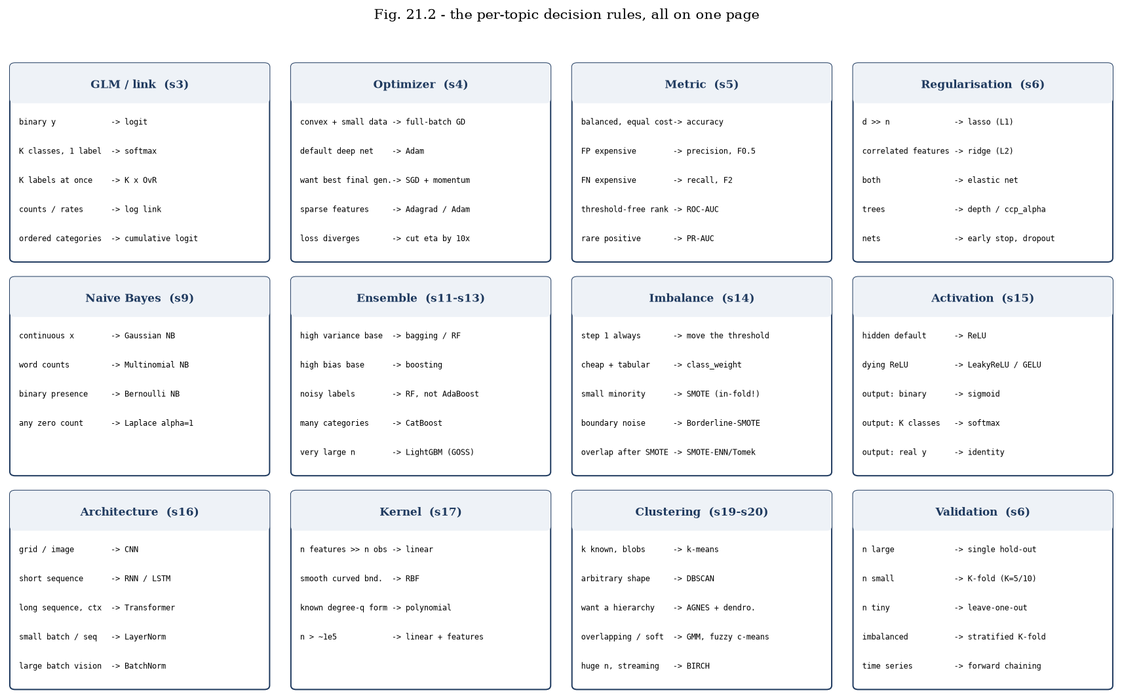
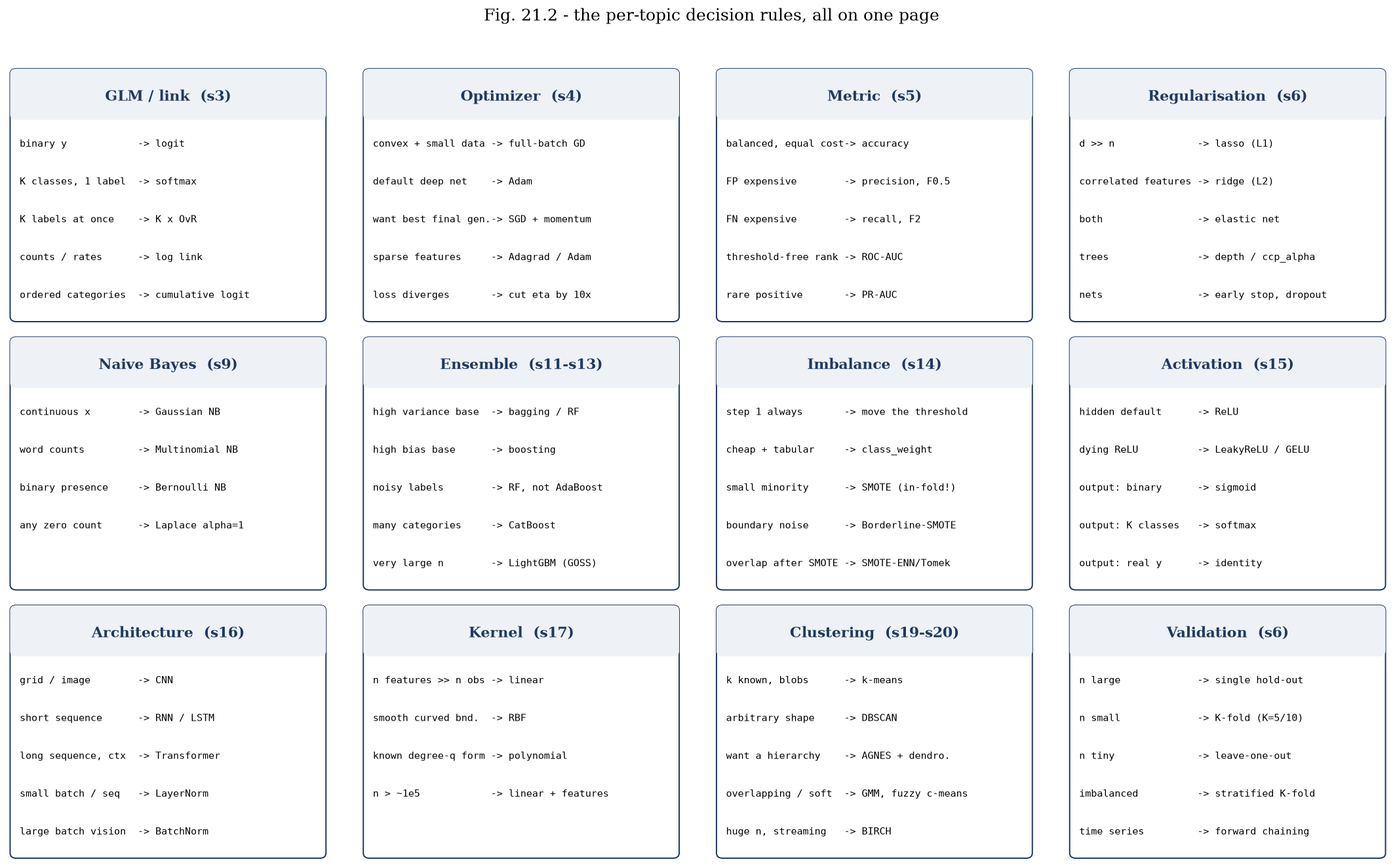
Rebrand to ML Handbook (mlhandbook.dev CNAME); test-day XGBoost treatment in ch.13; Fig 21.2 readability

diff --git a/docs/index.html b/docs/index.html
@@ -3,7 +3,7 @@
 <head>
 <meta charset="UTF-8">
 <meta name="viewport" content="width=device-width, initial-scale=1">
-<title>General ML Topics — An Interactive Machine-Learning Textbook</title>
+<title>ML Handbook — A Practical Guide for Professionals</title>
 <script>
 window.MathJax = {
   tex: { inlineMath: [['$','$'], ['\\(','\\)']],
@@ -586,14 +586,14 @@ document.addEventListener('DOMContentLoaded', function () {
 <body>
 <button id="sbtoggle" aria-label="toggle contents">&#9776;</button>
 <nav id="sidebar">
-  <h1>General ML Topics</h1>
-  <div class="crumb">an interactive machine-learning textbook</div>
+  <h1>ML Handbook</h1>
+  <div class="crumb">a practical guide for professionals</div>
   <input id="tocfilter" type="text" placeholder="filter topics&hellip;">
   <ul id="toc"></ul>
-  <div class="navlinks">Theory &middot; derivations &middot; worked examples &middot; interactive labs &middot; coding drills.<div style="margin-top:8px"><a href="test_set.html"><b>&#9998; Question Bank</b></a> — 128 MCQs + 50 in-browser coding problems</div></div>
+  <div class="navlinks">Theory &middot; derivations &middot; worked examples &middot; interactive labs &middot; coding drills.<div style="margin-top:8px"><a href="test_set.html"><b>&#9998; Question Bank</b></a> — 128 MCQs + 55 in-browser coding problems</div></div>
 </nav>
 <main id="main">
-<h1 class="title">Machine Learning — Complete Study Notes</h1>
+<h1 class="title">ML Handbook — Machine Learning: A Practical Guide for Professionals</h1>
 <div class="subtitle">an interactive textbook — theory, step-by-step derivations, worked examples, widgets &amp; coding labs</div>
 
 <h2 id="s01">1 &nbsp; When Can Machines Learn?</h2>
@@ -7635,7 +7635,14 @@ salary/age examples), using native categorical support and the learned default d
 §13.10 for missing values &mdash; verified on xgboost 3.4.0
 <!-- prov: s13_xgb_practical.json:xgboost_version -->:</p>
 
-<pre><code># preprocessing: order-preserving transforms are unnecessary — encode intent, not scale
+<pre><code>import numpy as np
+import pandas as pd
+import xgboost as xgb                                   # the package; gives xgb.DMatrix, xgb.train, xgb.cv
+from xgboost import XGBClassifier, XGBRegressor         # the sklearn-API wrappers
+from sklearn.model_selection import train_test_split
+print(xgb.__version__)        # enable_categorical needs &gt;= 1.6; tree_method="hist" is the default from 2.0
+
+# preprocessing: order-preserving transforms are unnecessary — encode intent, not scale
 df["city"] = df["city"].astype("category")   # native categoricals (enable_categorical)
 # leave salary's NaNs alone: each split learns a default direction (see 13.10)
 
@@ -7656,6 +7663,173 @@ validation/test. Encoding the splits separately silently produces two different 
 garbage predictions &mdash; the xgboost documentation calls this out explicitly. Prefer
 low-cardinality one-hot; for high-cardinality features prefer native categorical support or
 target statistics (what CatBoost automates, §13.12).</div>
+
+<h4>The two APIs: sklearn wrapper vs native booster</h4>
+
+<p>XGBoost ships <em>two</em> front ends onto the same C++ booster, and test questions phrase
+themselves in whichever one the setter learned. Know both, and know that
+<code>clf.get_booster()</code> converts one into the other for free.</p>
+
+<ul>
+<li><b>The sklearn wrapper</b> &mdash; <code>XGBClassifier</code> / <code>XGBRegressor</code> (also
+<code>XGBRanker</code>). It has <code>.fit / .predict / .predict_proba / .score</code>, so it drops
+straight into <code>Pipeline</code>, <code>ColumnTransformer</code>, <code>cross_val_score</code>,
+<code>GridSearchCV</code>/<code>RandomizedSearchCV</code> and <code>SelectFromModel</code>. Use it by
+default; almost every marking scheme expects this shape.</li>
+<li><b>The native API</b> &mdash; <code>xgb.DMatrix</code> + <code>xgb.train</code> + <code>xgb.cv</code>.
+Reach for it when you need a <em>custom objective or metric</em> (pass your own
+<code>obj=</code> returning $(g_i, h_i)$, or <code>custom_metric=</code>), <em>exact early-stopping
+control</em> (which watch-list entry drives it, <code>iteration_range</code> at predict time), or
+<code>xgb.cv</code>'s <em>per-round cross-validation table</em> &mdash; a full learning curve of
+mean&nbsp;&plusmn;&nbsp;std per boosting round that the wrapper simply cannot produce.</li>
+</ul>
+
+<p>The only real friction is that the two use different names for the same knob:</p>
+
+<div class="scrollx"><table>
+<thead><tr><th class="l">sklearn wrapper</th><th class="l">native <code>params</code> dict</th><th class="l">note</th></tr></thead>
+<tbody>
+<tr><td class="l"><code>n_estimators</code></td><td class="l"><code>num_boost_round</code> (argument, not a param)</td><td class="l">$M$, the number of trees</td></tr>
+<tr><td class="l"><code>learning_rate</code></td><td class="l"><code>eta</code></td><td class="l">$\nu$ of §13.4</td></tr>
+<tr><td class="l"><code>reg_lambda</code> / <code>reg_alpha</code></td><td class="l"><code>lambda</code> / <code>alpha</code></td><td class="l">$\lambda$ of §13.7</td></tr>
+<tr><td class="l"><code>gamma</code></td><td class="l"><code>gamma</code> (a.k.a. <code>min_split_loss</code>)</td><td class="l">$\gamma$ of §13.7</td></tr>
+<tr><td class="l"><code>random_state</code></td><td class="l"><code>seed</code></td><td class="l">same thing</td></tr>
+<tr><td class="l"><code>n_jobs</code></td><td class="l"><code>nthread</code></td><td class="l">same thing</td></tr>
+</tbody></table></div>
+<p class="small"></p>
+
+<details class="code"><summary>Code — the same model twice: sklearn wrapper, then native <code>DMatrix</code>/<code>xgb.train</code>, plus <code>xgb.cv</code></summary>
+<pre><code>import numpy as np
+import pandas as pd
+import xgboost as xgb
+from xgboost import XGBClassifier
+from sklearn.model_selection import train_test_split
+
+rng = np.random.default_rng(0)
+n = 800
+X = pd.DataFrame({
+    "age":    rng.integers(18, 65, n).astype(float),
+    "salary": rng.normal(12, 4, n).clip(2, 30),
+    "city":   pd.Categorical(rng.choice(["kolkata", "mumbai", "delhi"], n)),   # category dtype
+})
+lin   = 0.05 * X["age"] + 0.25 * X["salary"] - 5.0
+y     = (rng.random(n) &lt; 1 / (1 + np.exp(-lin))).astype(int)   # classification target
+spend = 40 * lin + rng.normal(0, 5, n)                         # regression target, used by xgb.cv below
+Xtr, Xva, ytr, yva = train_test_split(X, y, test_size=0.25, stratify=y, random_state=0)</code></pre>
+<pre><code># ---------- API 1: sklearn wrapper — Pipeline / GridSearchCV / SelectFromModel all work ----------
+clf = XGBClassifier(
+    n_estimators=2000, learning_rate=0.05, max_depth=4,        # sklearn NAMES
+    tree_method="hist", enable_categorical=True,
+    eval_metric="logloss", early_stopping_rounds=50, random_state=0,
+)
+clf.fit(Xtr, ytr, eval_set=[(Xva, yva)], verbose=False)
+clf.best_iteration, clf.best_score        # where early stopping fired, and the metric there
+p_wrap = clf.predict_proba(Xva)[:, 1]     # predict_proba already truncates at the best iteration</code></pre>
+<pre><code># ---------- API 2: native booster — custom objectives, xgb.cv, exact control ----------
+dtrain = xgb.DMatrix(Xtr, label=ytr, enable_categorical=True)   # label=, not a second positional y
+dvalid = xgb.DMatrix(Xva, label=yva, enable_categorical=True)
+
+params = {
+    "objective": "binary:logistic",   # picks g_i, h_i (13.7); reg:squarederror for regression
+    "eval_metric": "logloss",
+    "eta": 0.05,                      # == learning_rate
+    "max_depth": 4,
+    "tree_method": "hist", "seed": 0,
+}
+evals = [(dtrain, "train"), (dvalid, "valid")]   # the LAST entry is the one early stopping watches
+
+bst = xgb.train(params, dtrain,
+                num_boost_round=2000,            # == n_estimators
+                evals=evals, early_stopping_rounds=50, verbose_eval=False)
+
+bst.best_iteration                               # 0-indexed index of the best round
+p_nat = bst.predict(dvalid, iteration_range=(0, bst.best_iteration + 1))   # +1: end is exclusive
+np.abs(p_wrap - p_nat).max()   # identical predictions: same seed, same params, same booster</code></pre>
+<pre><code># ---------- xgb.cv: the per-round CV table the wrapper cannot give you ----------
+dall = xgb.DMatrix(X, label=spend, enable_categorical=True)     # regression target -&gt; rmse
+reg_params = {"objective": "reg:squarederror", "eta": 0.05, "max_depth": 4,
+              "tree_method": "hist", "seed": 0}
+cv = xgb.cv(reg_params, dall,
+            num_boost_round=1000, nfold=5, metrics="rmse",
+            early_stopping_rounds=50, seed=0, as_pandas=True)
+
+cv.columns        # ['train-rmse-mean', 'train-rmse-std', 'test-rmse-mean', 'test-rmse-std']
+best_rounds = cv["test-rmse-mean"].idxmin() + 1                 # +1: rows are 0-indexed rounds
+cv["test-rmse-mean"].min(), cv["test-rmse-std"][best_rounds - 1]   # score AND its fold spread
+# then REFIT on ALL the data with num_boost_round=best_rounds — that is the model you ship
+final = xgb.train(reg_params, dall, num_boost_round=best_rounds)</code></pre>
+<p class="wnote">Interview line: <em>they are the same booster</em> &mdash; the wrapper is a thin sklearn
+adapter over <code>xgb.train</code>, and <code>clf.get_booster()</code> hands you the native object, so
+you can tune with <code>GridSearchCV</code> and then inspect, dump or plot natively. Go native only for a
+custom objective/metric, for <code>xgb.cv</code>'s per-round table, or when you must control
+<code>iteration_range</code>. Two pitfalls worth saying out loud: native <code>bst.predict</code> uses
+<em>all</em> rounds unless you pass <code>iteration_range</code> (the wrapper does it for you), and
+<code>xgb.cv</code> returns a table of <em>rounds</em>, not a fitted model &mdash; you still have to refit.</p>
+</details>
+
+<div class="warn"><b>Gotcha &mdash; where <code>early_stopping_rounds</code> lives.</b> Since xgboost 2.0 the
+sklearn wrapper takes it in the <em>constructor</em> (as above), not in <code>.fit()</code>; older code
+passing <code>clf.fit(..., early_stopping_rounds=30)</code> raises a <code>TypeError</code>. In the native
+API it stays an argument of <code>xgb.train</code>/<code>xgb.cv</code>. Either way it needs an
+<code>eval_set</code>/<code>evals</code> to watch, and that watch-list must <em>not</em> be your test set if
+you intend to report an honest test score &mdash; early stopping on the test fold is leakage (§6).</div>
+
+<h4>The parameters that actually matter</h4>
+
+<p>§13.11 lists what the handwritten source names; this is the working set, grouped by the <em>role</em> a
+parameter plays, which is how you should reason about them under time pressure. Defaults are xgboost's own;
+&ldquo;typical&rdquo; is the practitioner search range.</p>
+
+<div class="scrollx"><table>
+<thead><tr><th class="l">param</th><th class="l">role</th><th class="l">typical range (default)</th><th class="l">what increasing it does</th><th class="l">overfitting direction</th></tr></thead>
+<tbody>
+<tr><td class="l"><code>max_depth</code></td><td class="l">capacity</td><td class="l">3&ndash;8 (6)</td><td class="l">deeper trees &rArr; interactions of higher order (depth $d$ captures $d$-way interactions)</td><td class="l">&uarr; overfits &mdash; the first knob to cut</td></tr>
+<tr><td class="l"><code>min_child_weight</code></td><td class="l">capacity</td><td class="l">1&ndash;10 (1)</td><td class="l">floor on a leaf's Hessian mass $H_j = \sum_{i \in I_j} h_i$ (§13.7); a split is refused if either child falls below it</td><td class="l">&uarr; underfits (regularises)</td></tr>
+<tr><td class="l"><code>gamma</code> / <code>min_split_loss</code></td><td class="l">capacity (pruning)</td><td class="l">0&ndash;5 (0)</td><td class="l">the §13.7 pruning threshold: a split survives only if $\text{Gain} &gt; \gamma$</td><td class="l">&uarr; underfits (fewer leaves)</td></tr>
+<tr><td class="l"><code>subsample</code></td><td class="l">sampling (rows)</td><td class="l">0.6&ndash;1.0 (1.0)</td><td class="l">fraction of rows drawn per tree; lower = more randomness, decorrelated trees</td><td class="l">&darr; regularises; below ~0.5 it just adds noise</td></tr>
+<tr><td class="l"><code>colsample_bytree</code></td><td class="l">sampling (columns)</td><td class="l">0.5&ndash;1.0 (1.0)</td><td class="l">fraction of features per tree (also <code>_bylevel</code>, <code>_bynode</code>); the §11 Random-Forest trick</td><td class="l">&darr; regularises, and dilutes a dominant feature</td></tr>
+<tr><td class="l"><code>learning_rate</code> / <code>eta</code></td><td class="l">shrinkage</td><td class="l">0.01&ndash;0.3 (0.3)</td><td class="l">scales every tree's contribution (§13.4); larger = fewer, bolder steps</td><td class="l">&uarr; overfits &amp; is unstable; &darr; needs more trees</td></tr>
+<tr><td class="l"><code>n_estimators</code> / <code>num_boost_round</code></td><td class="l">shrinkage (paired)</td><td class="l">set it high (2000&ndash;5000) and let early stopping choose</td><td class="l">more boosting rounds; the product with the learning rate is what matters</td><td class="l">&uarr; overfits &mdash; but <b>never grid-search it</b></td></tr>
+<tr><td class="l"><code>reg_lambda</code> (L2)</td><td class="l">regularisation</td><td class="l">0&ndash;10 (1)</td><td class="l">the $\lambda$ in the similarity score $G_j^2/(H_j+\lambda)$ and in $w_j^{*} = -G_j/(H_j+\lambda)$ (§13.7); shrinks leaves with little Hessian mass hardest</td><td class="l">&uarr; underfits (smaller leaf outputs)</td></tr>
+<tr><td class="l"><code>reg_alpha</code> (L1)</td><td class="l">regularisation</td><td class="l">0&ndash;10 (0)</td><td class="l">L1 on leaf weights; can drive a leaf output to exactly zero</td><td class="l">&uarr; underfits; use for sparse/wide feature sets</td></tr>
+<tr><td class="l"><code>scale_pos_weight</code></td><td class="l">imbalance</td><td class="l">$n_{\text{neg}}/n_{\text{pos}}$ (1)</td><td class="l">multiplies the positive class's $g_i, h_i$, so a rare positive counts as several rows</td><td class="l">not an overfitting knob &mdash; it moves the operating point, and it distorts calibrated probabilities</td></tr>
+<tr><td class="l"><code>early_stopping_rounds</code></td><td class="l">control</td><td class="l">20&ndash;100 (off)</td><td class="l">patience: stop after this many rounds with no improvement on the watch list</td><td class="l">too small stops on noise; too large wastes time only</td></tr>
+<tr><td class="l"><code>eval_metric</code></td><td class="l">control</td><td class="l"><code>logloss</code>, <code>auc</code>, <code>aucpr</code>, <code>error</code>; <code>rmse</code>, <code>mae</code></td><td class="l">what early stopping and the watch list report; independent of <code>objective</code></td><td class="l">pick the metric you are actually scored on (§5); <code>aucpr</code> under heavy imbalance</td></tr>
+<tr><td class="l"><code>tree_method</code></td><td class="l">control</td><td class="l"><code>"hist"</code> (default from 2.0)</td><td class="l">histogram binning of the split candidates &mdash; the LightGBM trick, orders of magnitude faster than <code>"exact"</code></td><td class="l">no real accuracy cost; required for <code>enable_categorical</code></td></tr>
+<tr><td class="l"><code>enable_categorical</code></td><td class="l">control</td><td class="l"><code>True</code>/<code>False</code> (False)</td><td class="l">lets pandas <code>category</code> columns be split on natively &mdash; no one-hot (§13.12)</td><td class="l">high-cardinality categoricals can overfit; pair with <code>max_cat_to_onehot</code></td></tr>
+<tr><td class="l"><code>n_jobs</code> / <code>nthread</code></td><td class="l">control</td><td class="l">$-1$ (all cores)</td><td class="l">threads used for split finding</td><td class="l">no effect on the fit, only on the clock</td></tr>
+<tr><td class="l"><code>random_state</code> / <code>seed</code></td><td class="l">control</td><td class="l">any int (0)</td><td class="l">seeds row/column subsampling &mdash; only matters if either is &lt; 1</td><td class="l">set it, always, or your numbers will not reproduce</td></tr>
+</tbody></table></div>
+<p class="small"></p>
+
+<div class="summary"><b>Tuning order &mdash; do it in this sequence.</b> This is Fig. 13.10's final box made
+concrete, and it is deliberately greedy: each stage's choice is stable enough for the next stage to sit on top
+of it.
+<ol>
+<li><b>Fix the shrinkage pair first.</b> Set <code>learning_rate</code> to 0.05&ndash;0.1, set
+<code>n_estimators</code> absurdly high, and let <code>early_stopping_rounds</code> pick $M$. That single
+run gives you a working baseline <em>and</em> the round budget everything else is judged against. Never put
+<code>n_estimators</code> in the grid &mdash; it is the one hyperparameter the training run reveals for free.</li>
+<li><b>Then capacity</b>: <code>max_depth</code> (3&ndash;8) with <code>min_child_weight</code> (1&ndash;10).
+These interact, so search them jointly; they are where most of the overfitting lives.</li>
+<li><b>Then sampling</b>: <code>subsample</code> and <code>colsample_bytree</code> over 0.6&ndash;1.0. Cheap,
+low-risk variance reduction.</li>
+<li><b>Then the regularisers</b>: <code>gamma</code>, <code>reg_lambda</code>, <code>reg_alpha</code> &mdash;
+only if train&ndash;validation gap remains after the above.</li>
+<li><b>Finally, drop the learning rate</b> (say 0.1 &rarr; 0.02) and re-run early stopping once. Almost always
+worth a little more, always costs more trees.</li>
+</ol>
+If the clock is short, do step 1 and stop: a well-early-stopped default XGBoost is a strong baseline, and
+grid-searching depth on an unstopped model measures nothing but the grid.</div>
+
+<div class="note"><b>Imbalance: <code>scale_pos_weight</code> before resampling.</b> Set it to
+$n_{\text{neg}}/n_{\text{pos}}$ on the <em>training</em> fold. It reweights the gradients rather than
+inventing rows, so it costs nothing, cannot leak synthetic neighbours across a CV split the way a
+carelessly-placed SMOTE can, and leaves the data untouched. Prefer it whenever the loss is what you care
+about; prefer resampling (SMOTE and friends, §14) when the minority class is so small that the <em>split
+finder</em> never sees enough positives in a node to form a threshold at all. Either way, judge the result on
+PR-AUC / recall at a fixed precision, not accuracy, and remember that both distort probability calibration
+&mdash; recalibrate if you need probabilities (§14, §5).</div>
 
 <h4>The three importance lenses: weight, gain, cover</h4>
 
@@ -7702,7 +7876,142 @@ salary and age split early on big nodes. When importances must support a decisio
 with permutation importance on held-out data or SHAP values (§14), which also handle the
 credit-splitting between correlated features more honestly.</div>
 
+<details class="code"><summary>Code — the three importances side-by-side, and the <code>get_score</code> crib</summary>
+<pre><code>import matplotlib.pyplot as plt
+import xgboost as xgb
+
+bst = clf.get_booster()          # clf = the fitted XGBClassifier; -&gt; the native Booster the plots want
+# a booster trained from a numpy DMatrix shows f0, f1, f2 ... — name the columns first:
+bst.feature_names = list(Xtr.columns)
+
+fig, axes = plt.subplots(1, 3, figsize=(15, 4))
+for ax, t in zip(axes, ["weight", "gain", "total_gain"]):
+    xgb.plot_importance(bst, importance_type=t, ax=ax,
+                        title=t, xlabel="", show_values=False, height=0.5)
+fig.tight_layout()
+plt.show()      # read them side by side: the ORDER changing between panels is the signal</code></pre>
+<pre><code># the crib — all five types in one frame (memorise this; it is two lines)
+import pandas as pd
+types = ["weight", "gain", "cover", "total_gain", "total_cover"]
+imp = pd.DataFrame({t: bst.get_score(importance_type=t) for t in types}).fillna(0.0)
+imp.sort_values("total_gain", ascending=False)
+# fillna is NOT cosmetic: get_score OMITS never-split features, so absent means zero
+
+clf.feature_importances_        # sklearn view: normalised to sum 1, "gain" by default for gbtree
+xgb.plot_importance(clf, importance_type="gain")     # the wrapper is accepted here too</code></pre>
+<p class="wnote">Interview line: <em>match the lens to the claim.</em> &ldquo;The model leans on this feature&rdquo;
+&rarr; <b>total_gain</b> (sum, so it does not reward a feature for one lucky split). &ldquo;This feature is
+used constantly&rdquo; &rarr; <b>weight</b> &mdash; and remember it is exactly the lens that ranked
+<code>noise_id</code> second here, because a continuous noise column offers endless thresholds to nibble on.
+&ldquo;This feature decides things near the root, for many rows&rdquo; &rarr; <b>cover</b>. &ldquo;Removing
+this feature would cost us&rdquo; &rarr; <em>none of the five</em>: they are all read off the <em>training</em>
+structure, so the referee is held-out permutation importance or SHAP (§14), which is what exposed
+<code>noise_id</code>'s negative contribution above. Plot all three, and if the ranking flips between panels,
+say so rather than quoting one.</p>
+</details>
+
+<h4>Feature engineering &amp; selection for XGBoost</h4>
+
+<p>A gradient-boosted tree can express any axis-aligned step function given enough depth, which
+tempts people into believing it needs no feature engineering. What it cannot do is form a
+<em>new axis</em>: every split compares one raw column against one threshold, so any quantity
+that lives in a <em>ratio</em>, a <em>difference</em>, or a <em>group summary</em> has to be handed
+to it as a column. That is the whole rule, and it decides both lists below.</p>
+
+<div class="scrollx"><table>
+<thead><tr><th class="l">BUILD these &mdash; the tree cannot form them</th><th class="l">SKIP these &mdash; the tree does not care</th></tr></thead>
+<tbody>
+<tr>
+<td class="l"><b>Group aggregates and counts.</b> <code>df.groupby(key)[col].transform("mean"/"count"/"std"/"max")</code>
+&mdash; "this customer's average basket", "how many transactions this id has". <code>transform</code>, not
+<code>agg</code>, so the result aligns back to every row (§22.1.5).</td>
+<td class="l"><b>Scaling of any kind.</b> <code>StandardScaler</code>, min&ndash;max, log, Box&ndash;Cox: every
+monotone map leaves every split &mdash; hence the fitted model &mdash; identical (§22.2.9). Scale for §4's
+gradient descent, §8's kNN and §17's SVM; never for a tree.</td>
+</tr>
+<tr>
+<td class="l"><b>Ratios and differences.</b> <code>amount/limit</code>, <code>price/sqft</code>,
+<code>spend - group_mean</code>. A single split cannot represent $x_1/x_2 &gt; c$; it needs a deep staircase to
+approximate it. One column replaces that staircase.</td>
+<td class="l"><b>One-hot for high cardinality.</b> A 5&nbsp;000-level id becomes 5&nbsp;000 near-empty binary
+columns, each too sparse to clear <code>min_child_weight</code>. Use native categoricals, frequency or target
+encoding instead (§22.2.10, §13.12).</td>
+</tr>
+<tr>
+<td class="l"><b>Encodings for high-cardinality nominals.</b> Frequency/count encoding (one line, no leakage
+risk) and out-of-fold target encoding (compute the target mean on the <em>other</em> folds only) &mdash; the
+full menu, with the leakage traps, is §22.2.10.</td>
+<td class="l"><b>Imputation, when native routing suffices.</b> Leave <code>NaN</code> in place: each node
+learns its own default direction (§13.10), which is strictly more expressive than pinning missingness to one
+point of the axis. Impute only when missingness is genuinely uninformative.</td>
+</tr>
+<tr>
+<td class="l"><b>Datetime, cyclical and lag features.</b> A raw timestamp is a monotone counter the tree can
+only memorise; extract dayofweek/month/hour, encode angles with sin&ndash;cos so December sits next to January,
+and build lags/rolling windows and "days since last event" (§22.3, §22.4).</td>
+<td class="l"><b>Interaction terms, mostly.</b> A depth-$d$ tree already represents $d$-way interactions of the
+columns it has, so explicit <code>x1*x2</code> rarely helps a depth-6 model. The exception is real: with
+shallow trees (depth 2&ndash;3), or with a ratio the staircase approximates badly, an explicit column still
+earns its place.</td>
+</tr>
+<tr>
+<td class="l"><b>Missingness as signal.</b> <code>df[c].isna().astype(int)</code> when the <em>fact</em> of a
+blank is predictive (MNAR &mdash; an unfilled income field) and you still want to impute the value itself.</td>
+<td class="l"><b>Deduplicating what the model would learn anyway.</b> Dropping a column because it correlates
+with another mostly reshuffles importance between the twins (see the gotchas below) without changing the fit.</td>
+</tr>
+</tbody></table></div>
+
+<details class="code"><summary>Code — four engineered features on a literal frame, straight into XGBClassifier</summary>
+<pre><code>import pandas as pd
+from xgboost import XGBClassifier
+
+tx = pd.DataFrame({
+    "cust":   ["a", "a", "a", "a", "b", "b", "b", "c", "c", "c", "c", "d"],
+    "city":   ["kol", "kol", "mum", "kol", "mum", "del", "mum", "del",
+               "kol", "mum", "kol", "del"],
+    "amount": [120., 80., 300., 60., 45., 60., 900., 500., 20., 90., 40., 700.],
+    "limit":  [1000., 1000., 2000., 1000., 500., 500., 1000., 4000.,
+               300., 300., 300., 1000.],
+    "ts":     ["2026-01-03", "2026-02-11", "2026-02-28", "2026-03-05",
+               "2026-01-19", "2026-03-02", "2026-03-20", "2026-03-15",
+               "2026-01-05", "2026-03-30", "2026-02-02", "2026-03-28"],
+    "flag":   [0, 0, 1, 0, 0, 0, 1, 1, 0, 0, 0, 0],   # "unusual FOR THIS customer"
+})
+tx["ts"] = pd.to_datetime(tx["ts"])      # never engineer dates off a string column</code></pre>
+<pre><code>g = tx.groupby("cust")["amount"]
+
+# 1. group COUNT  — how much history this customer has
+tx["cust_txn_count"]   = g.transform("count")
+# 2. group MEAN, as a RATIO — "big for this customer", which no single split can express
+tx["amt_vs_cust_mean"] = tx["amount"] / g.transform("mean")
+# 3. a plain ratio of two columns
+tx["utilisation"]      = tx["amount"] / tx["limit"]
+# 4. recency: a DURATION, not a timestamp (a raw date is just a counter to a tree)
+tx["days_since"]       = (tx["ts"].max() - tx["ts"]).dt.days
+# bonus: frequency encoding for a nominal — one column instead of one-hot
+tx["city_freq"]        = tx["city"].map(tx["city"].value_counts(normalize=True))
+
+X = tx[["amount", "limit", "cust_txn_count", "amt_vs_cust_mean",
+        "utilisation", "days_since", "city_freq"]]      # note: no scaling, no imputation
+fe_clf = XGBClassifier(n_estimators=60, max_depth=2, learning_rate=0.3,
+                       tree_method="hist", eval_metric="logloss")
+fe_clf.fit(X, tx["flag"])
+dict(zip(X.columns, fe_clf.feature_importances_.round(3)))</code></pre>
+<p class="wnote">Interview line: a tree splits <em>one column at a time</em>, so engineering for GBDTs means
+manufacturing the axes it cannot manufacture &mdash; group summaries, ratios, differences, durations &mdash;
+and then doing nothing else. Say the two halves together: <em>build</em> <code>groupby(...).transform(...)</code>
+aggregates, ratios, datetime durations and frequency/OOF-target encodings; <em>skip</em> scaling, wide one-hot
+and imputation. Pitfall: any statistic computed from the target (target encoding, group means of $y$) must be
+computed out-of-fold, or you have leaked the label into a column and your CV score becomes fiction.</p>
+</details>
+
 <h4>Feature selection that respects the model</h4>
+
+<p>Once the columns exist, the cut. Back on the 600-row pipeline fitted at the top of this subsection,
+XGBoost's own importances double as an <em>embedded</em> selector (§22.2.11's third family): fit once, keep
+what the model used, refit. <code>SelectFromModel</code> wraps that in one call &mdash; with the caveat that
+it inherits every bias of whichever lens you fed it.</p>
 
 <pre><code>from sklearn.feature_selection import SelectFromModel
 sel = SelectFromModel(clf, threshold="median", prefit=True)   # keeps above-median importance

diff --git a/docs/test_set.html b/docs/test_set.html
@@ -4584,7 +4584,7 @@ print("ALL CHECKS PASSED — C55")
 </div>
 
 <hr>
-<div style="text-align:center; font-size:12px; color: var(--muted); margin: 14px 0;">183 problems &middot; answers computed and independently verified &middot; companion to the ML notes.</div>
+<div style="text-align:center; font-size:12px; color: var(--muted); margin: 14px 0;">183 problems &middot; answers computed and independently verified &middot; companion to the ML Handbook.</div>
 </main>
 </body>
 </html>

diff --git a/README.md b/README.md
@@ -1,9 +1,9 @@
-# General ML Topics — An Interactive Machine-Learning Textbook
+# ML Handbook — A Practical Guide for Professionals
 
 A complete, self-contained interactive textbook covering machine learning from first
 principles to practice, in a single web page.
 
-**Read it here: <https://metaphorpritam.github.io/General_ML_Topics/>**
+**Read it here: <https://mlhandbook.dev/>**
 
 ## What's inside
 
@@ -38,5 +38,5 @@ docs/
 
 ## Question Bank
 
-Practice companion: **[the Question Bank](https://metaphorpritam.github.io/General_ML_Topics/test_set.html)** — 128 MCQs (instant feedback, worked explanations, score tracking) + 50 coding problems checked live in your browser via PyScript, with three progressive hints each. Over half the set drills probability, Bayes' theorem and statistics; includes business-application bands (credit risk, A/B testing, churn/CLV).
+Practice companion: **[the Question Bank](https://mlhandbook.dev/test_set.html)** — 128 MCQs (instant feedback, worked explanations, score tracking) + 50 coding problems checked live in your browser via PyScript, with three progressive hints each. Over half the set drills probability, Bayes' theorem and statistics; includes business-application bands (credit risk, A/B testing, churn/CLV).
 
